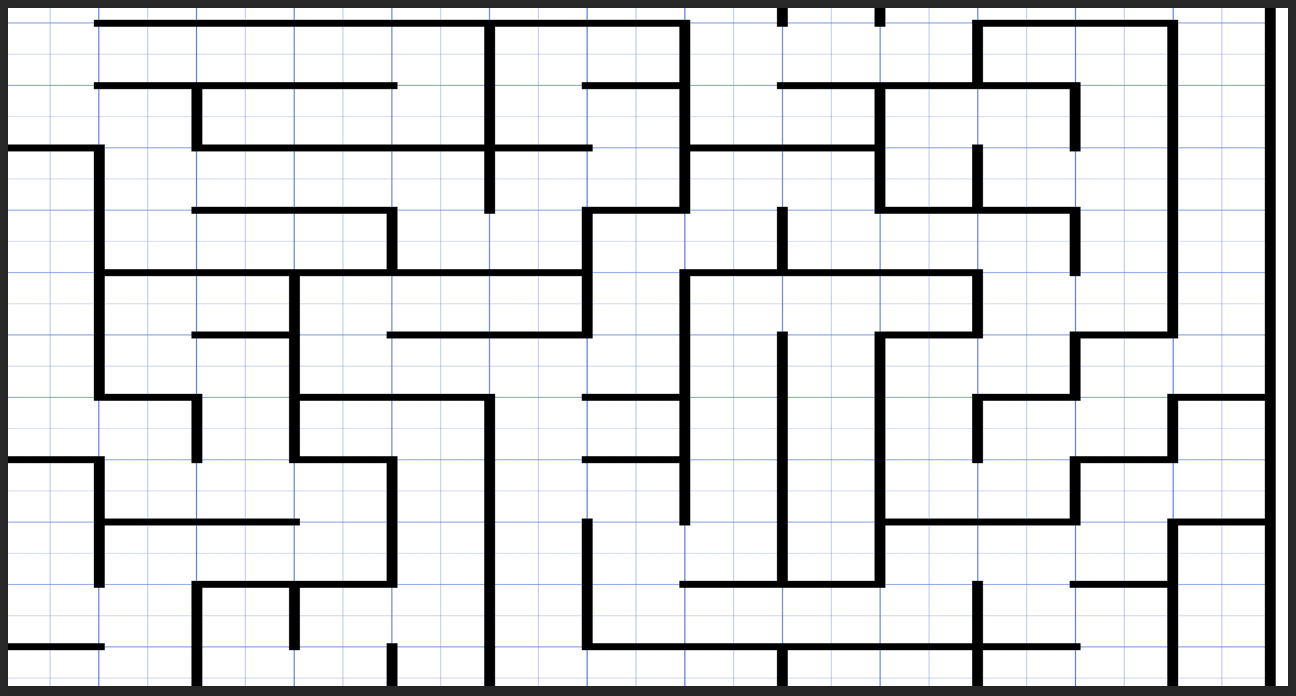
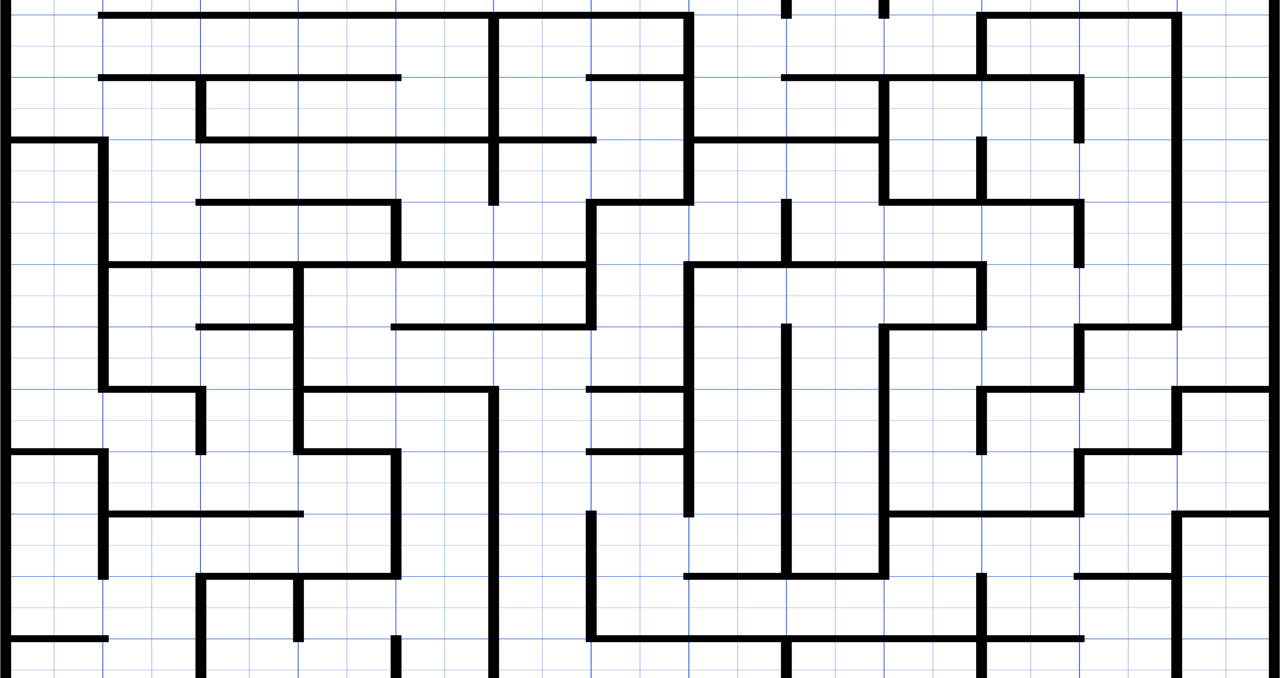
style edits - image border & places i worked

diff --git a/index.html b/index.html
@@ -163,28 +163,27 @@
                         <div class="col-xs-12 col-sm-offset-1 col-sm-4 col-md-offset-1 col-md-3 employment wp3">
                             <div class="text-center places-worked">
                                 <h3>Where I've Worked:</h3>
-                                <hr>
+                          
                                 <a href="https://www.crownsterling.io/" target="_blank">
                                     <img id="crownsterling-logo" src="img/crownsterling-logo.png" alt="crownsterling" />
                                 </a>
-                                <p>2020 March ~ Present </p>
-                                <hr>
+                               <p style="margin:0;padding:0"> <b><a href="https://www.crownsterling.io/" target="_blank">@Crown Sterling</a> </p> <p> 2020 March ~ Present </b></p>
+                  
                                 <a href="https://ucsd.edu/" target="_blank">
                                     <img id="ucsd-logo" src="img/ucsd-logo.png" alt="Ucsd" />
                                 </a>
-                                <p>2019 ~ Present </p>
-                                <hr>
+                                <p style="margin:0;padding:0"> <b><a href="https://ucsd.edu/" target="_blank" >@UC San Diego</a> </p> <p> 2019 ~ Present  </b></p>
+               
                                 <a href="https://www.linkedin.com/company/saline-co.-ltd/" target="_blank">
                                     <img id="saline-logo" src="img/saline-logo.jpg" alt="Saline" />
                                 </a>
-                                <p>2018 Summer & 2019 Summer</p>
-                                <hr>
+                                <p style="margin:0;padding:0"> <b><a href="https://www.linkedin.com/company/saline-co.-ltd/" target="_blank">@Saline</a> </p> <p> 2018 Summer & 2019 Summer </b></p>
+                           
                                 <a href="https://www.deanza.edu/" target="_blank">
                                     <img id="deanza-logo" src="img/deanza-logo.jpg" alt="Deanza" />
                                 </a>
-                                <p>2017 ~ 2019</p>
-                                
-
+                                <p style="margin:0;padding:0"> <b><a href="https://www.linkedin.com/company/saline-co.-ltd/" target="_blank">@De Anza College</a> </p> <p> 2017 ~ 2019</b></p>
+                        
                             </div>
                         </div>
                     </div>
@@ -231,7 +230,7 @@
                             <div class="links">
                                 <a class="image-link"><i class="fa fa-search-plus"></i></a>
                             </div>
-                            <img src="img/what-ive-done/amazon.png" alt="image">
+                            <img src="img/what-ive-done/amazon.png" alt="image" style="border: 2px solid #555" >
                             <div class="portfolio-info">
                                 <h3>Data Structures Project</h3>
                             </div>
@@ -243,7 +242,7 @@
                             <div class="links">
                                 <a class="image-link"><i class="fa fa-search-plus"></i></a>
                             </div>
-                            <img src="img/what-ive-done/website.png" alt="image">
+                            <img src="img/what-ive-done/website.png" alt="image" style="border: 2px solid #555">
                             <div class="portfolio-info">
                                 <h3>Personal Website</h3>
                             </div>
@@ -255,7 +254,7 @@
                             <div class="links">
                                 <a class="image-link"><i class="fa fa-search-plus"></i></a>
                             </div>
-                            <img src="img/what-ive-done/maze.png" alt="image">
+                            <img src="img/what-ive-done/maze.png" alt="image" style="border: 2px solid #555">
                             <div class="portfolio-info">
                                 <h3>Maze Solver Project</h3>
                             </div>
@@ -269,7 +268,7 @@
                             <div class="links">
                                 <a class="image-link"><i class="fa fa-search-plus"></i></a>
                             </div>
-                            <img src="img/what-ive-done/physicsissue.png" alt="image">
+                            <img src="img/what-ive-done/physicsissue.png" alt="image" style="border: 2px solid #555">
                             <div class="portfolio-info">
                                 <h3>Physics Paper Publication</h3>
                             </div>
@@ -281,7 +280,7 @@
                             <div class="links">
                                 <a class="image-link"><i class="fa fa-search-plus"></i></a>
                             </div>
-                            <img src="img/what-ive-done/kscy.png" alt="image">
+                            <img src="img/what-ive-done/kscy.png" alt="image" style="border: 2px solid #555">
                             <div class="portfolio-info">
                                 <h3>CS Paper Presentation</h3>
                             </div>
@@ -293,7 +292,7 @@
                             <div class="links">
                                 <a class="image-link"><i class="fa fa-search-plus"></i></a>
                             </div>
-                            <img src="img/what-ive-done/fakenews.png" alt="image">
+                            <img src="img/what-ive-done/fakenews.png" alt="image" style="border: 2px solid #555">
                             <div class="portfolio-info">
                                 <h3>Fake News Detection Plugin</h3>
                             </div>
@@ -305,7 +304,7 @@
                             <div class="links">
                                 <a class="image-link"><i class="fa fa-search-plus"></i></a>
                             </div>
-                            <img src="img/what-ive-done/sos.png" alt="image">
+                            <img src="img/what-ive-done/sos.png" alt="image" style="border: 2px solid #555">
                             <div class="portfolio-info">
                                 <h3>Just-In-Case SOS Application</h3>
                             </div>
